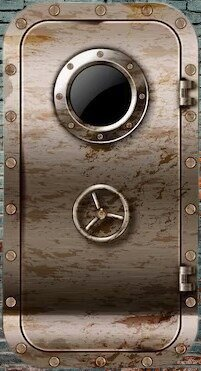
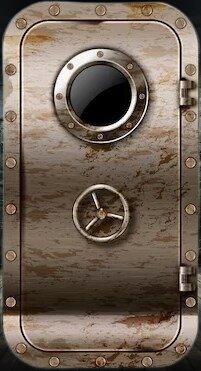
background changed and door and lever in place

Changed region(s): [[0.0, 0.0, 1.0, 1.0]]

diff --git a/html/player2.html b/html/player2.html
@@ -15,7 +15,7 @@
 	<link rel="stylesheet" href="/css/stylesheet.css" />
 </head>
 
-<body background="/resources/wall.jpeg">
+<body background="/resources/wall2.jpg">
     <!--<nav id="anchors" class="navbar navbar-expand-lg navbar-light bg-light">
         <a href="#/" id="home-href">HOME</a>
         <a href="#/authors" id="authors-href">AUTHORS</a>
@@ -31,7 +31,7 @@
 
     </div>
     <div id="door_close">
-        <img src="/resources/door_close.jpg">
+        <img src="/resources/door_closed.jpg">
     </div>
     
 </body>

diff --git a/html/player1.html b/html/player1.html
@@ -14,7 +14,7 @@
     <link rel="stylesheet" href="/css/stylesheet.css" />
 </head>
 
-<body background="/resources/wall.jpeg" >
+<body background="/resources/wall2.jpg" >
     <!--<nav id="anchors" class="navbar navbar-expand-lg navbar-light bg-light">
         <a href="#/" id="home-href">HOME</a>
         <a href="#/authors" id="authors-href">AUTHORS</a>

diff --git a/css/stylesheet.css b/css/stylesheet.css
@@ -6,11 +6,13 @@ body {
 
 #lever {
     margin-left: 200px;
-    margin-top: 200px;
+    margin-top: 400px;
 
 }
 
 #door_close{
-    margin-left: 500px;
+    margin-top: -117px;
+    margin-left: 1000px;
+
     
 }
